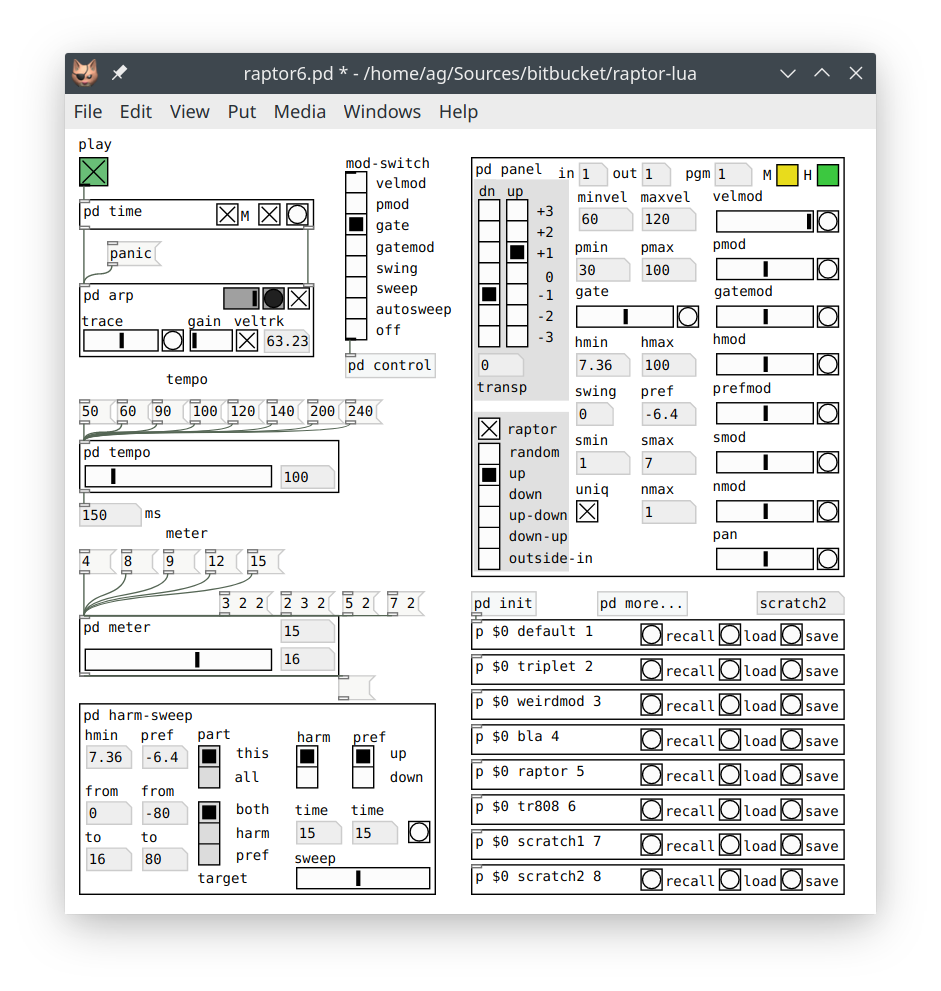
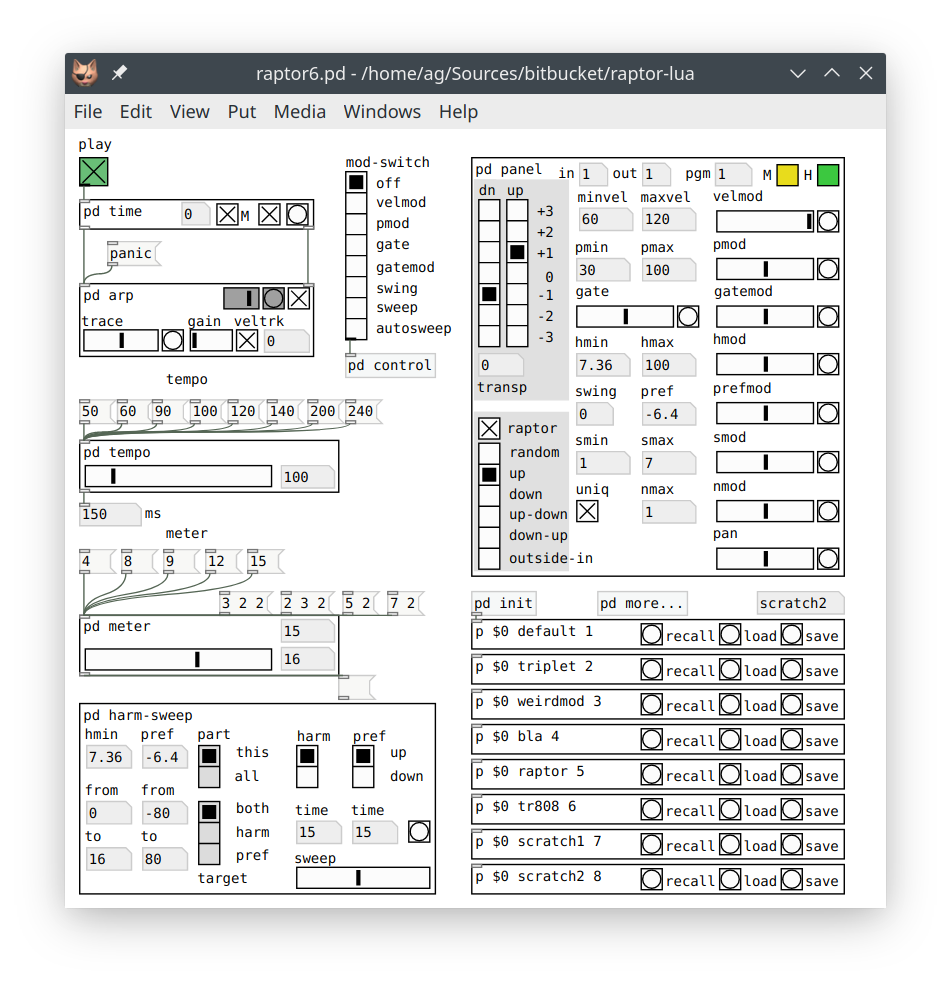
Add support for SPP (song position pointer) messages, and an anacrusis numbox to the time subpatch.

Changed region(s): [[0.0616, 0.0609, 0.8937, 0.9137], [0.8937, 0.0609, 0.9245, 0.0914]]

diff --git a/README.md b/README.md
@@ -33,7 +33,7 @@ In any case, Raptor suggests a base pulse when you specify a meter. Traditionall
 
 ## Time
 
-Transport starts rolling as soon as you turn on the big green `play` toggle at the top of the Raptor patch, and stops when turning it off again, *after* the arpeggiator finishes playing the current bar (the beat indicator in the `arp` subpatch changes to red until the arpeggiator really stops; if needed, you can also start and stop the arpeggiator instantly with a separate toggle in the `time` subpatch, more on that later).
+Transport starts rolling as soon as you turn on the big green `play` toggle at the top of the Raptor patch, and stops when turning it off again, *after* the arpeggiator finishes playing the current bar (the beat indicator in the `arp` subpatch changes to red until the arpeggiator really stops; if needed, you can also start and stop the arpeggiator instantly with the second, unlabeled toggle in the `time` subpatch). Playback usually starts at the beginning of a bar, but you can also start on an *anacrusis* (an upbeat) if you enter the pulse offset (counting from zero) into the little numbox in the `time` subpatch.
 
 Whenever transport is rolling, Raptor generates pulses according to the current meter and tempo settings, and the arpeggiator creates note output at each pulse from the calculated pulse strengths and the notes that you're currently playing. At any point in time, you can change *any* of the arpeggiator's parameters, including arpeggiation mode, meter and tempo, and (of course) the notes you play, and Raptor will respond immediately by changing the sequenced pattern accordingly.
 
@@ -41,7 +41,7 @@ You can even have a whole band of Raptors accompanying you, by running multiple 
 
 Finally, Raptor can also sync to an external time source via MIDI clock messages, in which case that time source takes over Raptor's transport and determines tempo and pulse period. Most DAWs support this, you just need to enable MIDI clock output in the DAW and connect it to any of Pd's MIDI inputs. As soon as Raptor starts receiving MIDI clocks, the pulse button in the `time` patch turns red to indicate MIDI clock sync, playback starts automatically, and the current tempo and pulse period are displayed in the tempo section. Playback stops as soon as Raptor receives a MIDI stop message, or hasn't received MIDI clocks for a little while (3 seconds in the current implementation, but this value can be changed in the `midiclock` abstraction).
 
-**NOTE:** Raptor's MIDI clock sync is a bit rudimentary right now, in particular, it lacks support for song position pointer (SPP) messages. To get a proper sync between Raptor and your DAW, make sure that you start playback at the beginning of a bar in the DAW, and have the meter set correctly in Raptor.
+**NOTE:** While MIDI sync should always work if your DAW supports it, pulses may appear to be out of phase if the meter settings don't match up, or if your DAW lacks support for song position pointer (SPP) messages and you start playback with an upbeat. Sometimes it may be fun to do this on purpose, but usually you'll want to make sure that you have meter and anacrusis set correctly to avoid such mishaps.
 
 ## Harmonicity
 
@@ -57,7 +57,7 @@ Before we go into Raptor's MIDI controls, let's have a quick look at some import
 
 First, in the main patch there's the `mod-switch` control (saved in the patch) which assigns some PACER controls to various different parameters for hands-free operation. Most related controls can be found in the `panel` subpatch; the most prominent of these are the yellow mute toggle (labeled `M`) which mutes the arpeggiator (stops all note output), and the green hold toggle (labeled `H`) which holds all note input in memory, so that the arpeggiator keeps playing the same pattern while this toggle is engaged. These are mostly intended for live control and automation, so they both have MIDI bindings (CC64 and CC67). Of course, you can also operate them in the GUI, but their state is neither saved in the patch nor in presets.
 
-Second, in the `time` subpatch there is the time master (`M`) toggle (saved in the patch) which we already discussed in the "Time" section. There's also a second (unlabeled) start/stop toggle (not saved) which enables you to start and stop the sequence manually, and a pulse button to trigger individual pulses in a step-wise fashion, which can be useful for debugging purposes. (As discussed in the "Time" section, the pulse button also goes red to indicate MIDI clock sync, in which case you better not mess with it to keep Raptor in sync with the time source.)
+Second, in the `time` subpatch there is the time master (`M`) toggle (saved in the patch) which we already discussed in the "Time" section. There's also a second (unlabeled) start/stop toggle (not saved) which enables you to start and stop the sequence manually, and a pulse button to trigger individual pulses in a step-wise fashion, which can be useful for debugging purposes. As discussed in the "Time" section, the pulse button also goes red to indicate MIDI clock sync, in which case you better not mess with it to keep Raptor in sync with the time source. Also, the little anacrusis numbox on the left will set the pulse offset from the beginning of a bar (counting from zero) when playback starts. This is filled in automatically if your DAW sends song position pointer (SPP) messages, but you can also set it manually (whether using MIDI clock sync or not) if you need to start playback on an anacrusis.
 
 Third, there's the `arp` subpatch containing the guts of the arpeggiator itself. You can send a `panic` message to the arpeggiator to kill hanging notes, and switch the metronome on and off with the toggle control in the upper-right corner (saved in the patch). A gray slider gives an indication of the pulse strengths, and the gray beat indicator next to it briefly flashes at the beginning of each bar. You'll also notice that this indicator temporarily goes red if you stop the sequence, until the arpeggiator finishes playing the current bar.
 
